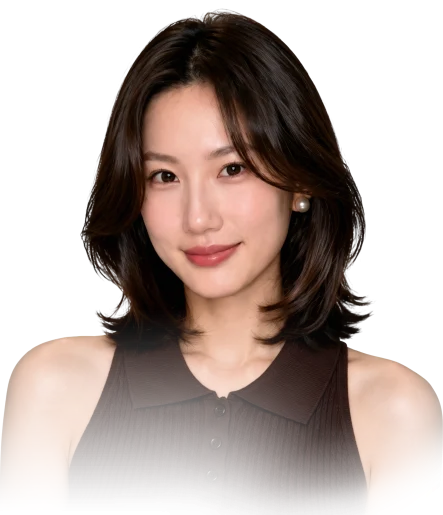
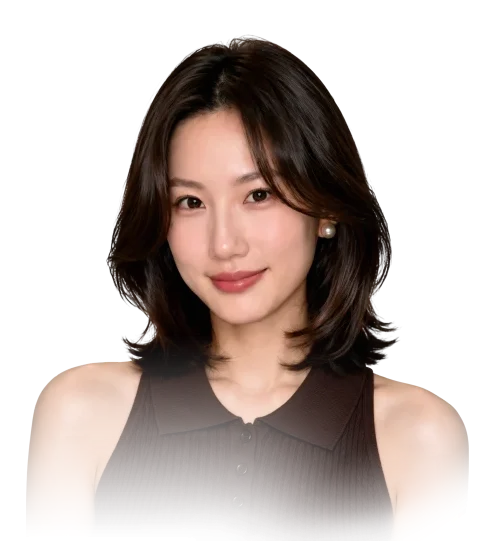
Side-by-side market directions on phones, matched founder faces, caption style
- Phones show the two market directions in two columns with a hairline.
- Yang's cut-out gains transparent margin so both founders' faces render
  at the same size on phones and laptops (her photo was framed tighter).
- The brand-row caption becomes a serif italic after a short gold rule.

Changed region(s): [[0.0, 0.0, 1.0, 0.9942], [0.6456, 0.7767, 0.7043, 0.8699]]

diff --git a/index.html b/index.html
@@ -21,7 +21,7 @@
     <link rel="preload" href="/assets/fonts/bluu-next-bold-latin-v1.woff2" as="font" type="font/woff2" crossorigin="">
     <link rel="stylesheet" href="/assets/css/site.css?v=botanical-journal-v1">
     <script src="/assets/js/site.js?v=feedback-1113" defer=""></script>
-    <link rel="stylesheet" href="/assets/css/home-overview.css?v=2"><script src="/assets/js/home-cases.js?v=1" defer=""></script>
+    <link rel="stylesheet" href="/assets/css/home-overview.css?v=3"><script src="/assets/js/home-cases.js?v=1" defer=""></script>
     <link rel="stylesheet" href="/assets/css/home-journal.css?v=1">
     <script src="/assets/js/home-journal.js?v=1" defer=""></script>
     <script src="/assets/js/home-vine.js?v=tube-v6" defer=""></script>
@@ -218,7 +218,7 @@
         </div>
       </section>
 <section class="section home-cases vine-static-section" id="cases" aria-labelledby="cases-title" data-cases-carousel=""><div class="section-shell"><div class="home-overview__heading"><div><p class="eyebrow">Culture in practice</p><h2 class="section-heading" id="cases-title">Our cases.</h2></div><a class="text-link" href="/work/">View all cases <span aria-hidden="true">→</span></a></div><div class="home-cases__rail" id="cases-rail" data-cases-rail="" tabindex="0" role="region" aria-roledescription="carousel" aria-label="Our cases"><a class="home-cases__all" href="/work/"><span class="eyebrow">More perspectives</span><span class="home-cases__all-title">There's more<br>to the story.</span><span class="text-link">View all cases <span aria-hidden="true">→</span></span></a></div><div class="home-cases__controls" data-cases-controls="" hidden=""><span data-cases-position="" aria-live="polite"></span><div><button type="button" data-cases-prev="" aria-label="Previous cases" aria-controls="cases-rail" disabled=""><span aria-hidden="true">←</span></button><button type="button" data-cases-next="" aria-label="Next cases" aria-controls="cases-rail"><span aria-hidden="true">→</span></button></div></div></div></section>
-<section class="section home-founders vine-static-section" id="founders" aria-labelledby="home-founders-title"><div class="section-shell"><div class="home-overview__heading"><div><p class="eyebrow">Founded by creators</p><h2 class="section-heading" id="home-founders-title">Meet the founders.</h2><p class="home-founders__motto"><span lang="zh-Hans">从创作者中来，回到创作者中去</span> From creators, back to creators.</p></div><a class="text-link" href="/about/#founders">Learn more about us <span aria-hidden="true">→</span></a></div><div class="home-founders__grid"><article class="founder-feature founder-feature--betty"><a class="founder-feature__visual" href="/about/#mengzhu-cao" aria-label="Meet Betty, Mengzhu Cao"><img class="founder-feature__social founder-feature__social--one" src="/assets/images/about/social/betty-xhs-profile.webp" width="528" height="386" loading="lazy" alt=""><img class="founder-feature__social founder-feature__social--two" src="/assets/images/about/social/betty-douyin-profile.webp" width="528" height="412" loading="lazy" alt=""><img class="founder-feature__portrait" src="/assets/images/about/mengzhu-cao-feature.webp" width="600" height="656" loading="lazy" alt="Betty, Mengzhu Cao, founder of Zeeman Culture"></a><div class="founder-feature__text"><p class="founder-feature__role"><span lang="zh-Hans">创始人</span> Founder</p><h3><span lang="zh-Hans">曹梦竹</span> <em>Betty</em></h3><p class="founder-feature__fullname">Mengzhu Cao</p><ul class="founder-feature__facts"><li>Cross-cultural marketing between the UK and China</li><li><mark>140K+</mark> personal followers</li><li><mark>Million-level</mark> follower reach across her creators</li><li>Multiple posts past <mark>10M</mark> views</li></ul></div></article><article class="founder-feature founder-feature--yang"><a class="founder-feature__visual" href="/about/#jinghang-yang" aria-label="Meet Yang, Jinghang Yang"><img class="founder-feature__social founder-feature__social--one" src="/assets/images/about/social/yang-xhs-profile-light.webp" width="516" height="386" loading="lazy" alt=""><img class="founder-feature__social founder-feature__social--two" src="/assets/images/about/social/yang-xhs-profile-dark.webp" width="518" height="336" loading="lazy" alt=""><img class="founder-feature__portrait" src="/assets/images/about/jinghang-yang-feature.webp" width="443" height="515" loading="lazy" alt="Yang, Jinghang Yang, co-founder of Zeeman Culture"></a><div class="founder-feature__text"><p class="founder-feature__role"><span lang="zh-Hans">联合创始人</span> Co-founder</p><h3><span lang="zh-Hans">杨静航</span> <em>Yang</em></h3><p class="founder-feature__fullname">Jinghang Yang</p><ul class="founder-feature__facts"><li>International brand content and social media</li><li><mark>200K+</mark> followers on her own account</li><li>Leads commercial campaigns with <mark>million-level</mark> results</li></ul></div></article></div></div></section>
+<section class="section home-founders vine-static-section" id="founders" aria-labelledby="home-founders-title"><div class="section-shell"><div class="home-overview__heading"><div><p class="eyebrow">Founded by creators</p><h2 class="section-heading" id="home-founders-title">Meet the founders.</h2><p class="home-founders__motto"><span lang="zh-Hans">从创作者中来，回到创作者中去</span> From creators, back to creators.</p></div><a class="text-link" href="/about/#founders">Learn more about us <span aria-hidden="true">→</span></a></div><div class="home-founders__grid"><article class="founder-feature founder-feature--betty"><a class="founder-feature__visual" href="/about/#mengzhu-cao" aria-label="Meet Betty, Mengzhu Cao"><img class="founder-feature__social founder-feature__social--one" src="/assets/images/about/social/betty-xhs-profile.webp" width="528" height="386" loading="lazy" alt=""><img class="founder-feature__social founder-feature__social--two" src="/assets/images/about/social/betty-douyin-profile.webp" width="528" height="412" loading="lazy" alt=""><img class="founder-feature__portrait" src="/assets/images/about/mengzhu-cao-feature.webp" width="600" height="656" loading="lazy" alt="Betty, Mengzhu Cao, founder of Zeeman Culture"></a><div class="founder-feature__text"><p class="founder-feature__role"><span lang="zh-Hans">创始人</span> Founder</p><h3><span lang="zh-Hans">曹梦竹</span> <em>Betty</em></h3><p class="founder-feature__fullname">Mengzhu Cao</p><ul class="founder-feature__facts"><li>Cross-cultural marketing between the UK and China</li><li><mark>140K+</mark> personal followers</li><li><mark>Million-level</mark> follower reach across her creators</li><li>Multiple posts past <mark>10M</mark> views</li></ul></div></article><article class="founder-feature founder-feature--yang"><a class="founder-feature__visual" href="/about/#jinghang-yang" aria-label="Meet Yang, Jinghang Yang"><img class="founder-feature__social founder-feature__social--one" src="/assets/images/about/social/yang-xhs-profile-light.webp" width="516" height="386" loading="lazy" alt=""><img class="founder-feature__social founder-feature__social--two" src="/assets/images/about/social/yang-xhs-profile-dark.webp" width="518" height="336" loading="lazy" alt=""><img class="founder-feature__portrait" src="/assets/images/about/jinghang-yang-feature.webp?v=2" width="496" height="541" loading="lazy" alt="Yang, Jinghang Yang, co-founder of Zeeman Culture"></a><div class="founder-feature__text"><p class="founder-feature__role"><span lang="zh-Hans">联合创始人</span> Co-founder</p><h3><span lang="zh-Hans">杨静航</span> <em>Yang</em></h3><p class="founder-feature__fullname">Jinghang Yang</p><ul class="founder-feature__facts"><li>International brand content and social media</li><li><mark>200K+</mark> followers on her own account</li><li>Leads commercial campaigns with <mark>million-level</mark> results</li></ul></div></article></div></div></section>
       <section class="section home-journal vine-static-section" id="journal" aria-labelledby="journal-title" data-journal-carousel="">
         <svg class="vine-static-sprig" viewBox="0 0 110 54" width="110" height="54" aria-hidden="true" focusable="false"><path d="M110 24C86 22 58 11 13 22" fill="none" stroke="currentColor" stroke-width="2"></path><path d="M75 17C61 2 45 3 40 6C48 18 62 23 75 17ZM48 16C37 29 26 33 17 31C23 18 34 14 48 16Z" fill="currentColor"></path><path d="M69 16L46 7M44 18L23 29" stroke="var(--vine-static-vein)" stroke-width="1" fill="none"></path></svg>
         <div class="section-shell">

diff --git a/assets/css/home-overview.css b/assets/css/home-overview.css
@@ -4,6 +4,9 @@
 .page--home .brand-exchange__heading { display:block; padding-block:16px; margin-bottom:0; }
 .page--home .brand-exchange__heading .home-section-label { display:none; }
 .brand-exchange__caption { margin:0; color:var(--home-forest); font-size:13px; }
+/* Editorial caption: serif italic after a short gold rule. */
+body.page--home .brand-exchange__caption { display:flex; align-items:center; gap:14px; font-family:var(--home-serif-accent); font-size:clamp(20px,1.7vw,25px); font-style:italic; line-height:1.25; }
+body.page--home .brand-exchange__caption::before { flex:0 0 36px; height:1px; content:""; background:var(--home-gold); }
 .page--home .brand-lane__track, .page--home .brand-lane--reverse .brand-lane__track { width:max-content; animation-duration:var(--marquee-duration, 80s); }
 .page--home .brand-lane__group { display:flex; width:max-content; flex:0 0 auto; min-width:100vw; justify-content:space-around; }
 .page--home .brand-lane__group .brand-lane__item { flex:0 0 clamp(240px,18vw,280px); width:clamp(240px,18vw,280px); min-height:120px; padding:24px 32px; border-right:0; background:transparent; color:var(--home-forest); }
@@ -215,6 +218,13 @@ body.page--home .home-service-card h3 { font-family:var(--home-serif-accent); fo
   .home-scroll-vine__branch { stroke-width:1.5; }
   .home-scroll-vine__tube-body, .home-scroll-vine__tendril { stroke-width:.95; }
   .home-scroll-vine__tube-glint { stroke-width:.7; }
-  body.page--home .market-direction__destination { font-size:32px; }
+  body.page--home .brand-exchange__caption { gap:10px; font-size:18px; }
+  body.page--home .brand-exchange__caption::before { flex-basis:24px; }
+  /* The two market directions sit side by side, divided by a hairline. */
+  body.page--home .home-services--overview .market-directions { grid-template-columns:repeat(2,minmax(0,1fr)); }
+  body.page--home .home-services--overview .market-direction { padding:20px 10px 22px; }
+  body.page--home .home-services--overview .market-direction + .market-direction { padding:20px 10px 22px; border-top:0; border-left:1px solid var(--line-light); }
+  body.page--home .home-services--overview .market-direction__origin { font-size:13.5px; line-height:1.35; }
+  body.page--home .market-direction__destination { margin-top:4px; font-size:25px; line-height:1.05; text-wrap:balance; }
   body.page--home .home-service-card h3 { font-size:24px; }
 }
